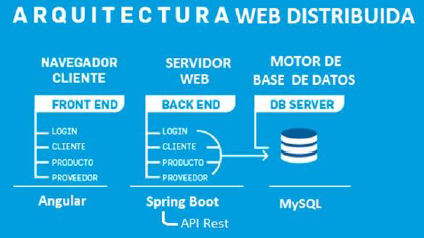
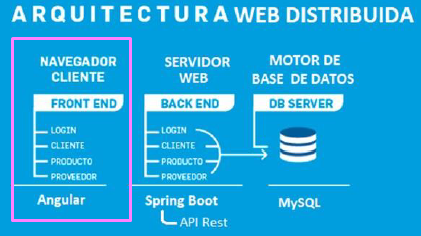
update README

diff --git a/README.md b/README.md
@@ -101,6 +101,24 @@ Link del back-end del proyecto: [⋄ click aca ⋄](https://github.com/hebelia/b
 
 Este portfolio fue el primer proyecto que realice en programación, se trata de un portfolio web SPA(Single Page Aplication), consumiendo una API que cree utilizando Java para poder modificar, agregar, traer y eliminar información de la base de datos.
 
+<div align="center">
+
+  ![Arquitectura Web del Portfolio](src/assets/img/arquitectura-web.png)
+
+<i> ∆ nota: en este repositorio se encuentra desarrollada la parte resaltada</i>
+
+<details>
+  <summary> <a>Diagrama Entidad-Relacion :mag_right: </a></summary>
+
+  ![Diagrama Entidad Relación](/src/assets/img/DER.png)
+
+  <i> ∆ nota: este diagrama lo realice inicialmente como parte de los desafios de modulo propuestos por el propgrama, mas adelante agregue los campos "email" y  "password" a la tabla "person" para crear los métodos de login.</i>
+</details>
+
+  ------------------------------------------------
+
+</div>
+
 Link del front-end del proyecto: [⋄ click aca ⋄](https://github.com/hebelia/front-end)
 
 Link del back-end del proyecto: [⋄ click aca ⋄](https://github.com/hebelia/back-end)
@@ -117,6 +135,7 @@ Fue un curso completamente auto gestionado seguí la maquetación que fue dada e
 - <b>< proyectos ></b> En esta sección tenemos toda la información de proyectos realizados por mi
 - <b>< footer ></b> En esta sección tenemos la licencia
   <br />
+  
 
 ## Imágenes del portfolio web:
 
